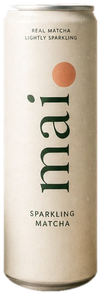
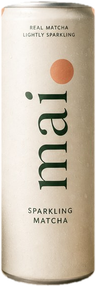
Put the photographed can back, sized to its real pixels.
Drop the vector can and the yuzu draft. Recut the still-life can from mai-hero.jpg and show it at 96px so a 2x screen does not upscale it. Keep the tighter hero, the whisk, and a small yuzu in place of the extra cans.

diff --git a/index.html b/index.html
@@ -31,7 +31,13 @@
     <meta name="twitter:image" content="https://drinkmai.com/assets/og.jpg" />
     <meta name="theme-color" content="#efe4d2" />
     <link rel="icon" href="favicon.svg" type="image/svg+xml" />
-    <link rel="preload" as="image" href="assets/can/mai.svg" type="image/svg+xml" />
+    <link
+      rel="preload"
+      as="image"
+      href="assets/can/mai-2x.webp"
+      type="image/webp"
+      imagesrcset="assets/can/mai-1x.webp 1x, assets/can/mai-2x.webp 2x"
+    />
     <link rel="preconnect" href="https://fonts.googleapis.com" />
     <link rel="preconnect" href="https://fonts.gstatic.com" crossorigin />
     <link
@@ -46,7 +52,7 @@
         href="https://fonts.googleapis.com/css2?family=Cormorant+Garamond:wght@500;600&family=Outfit:wght@400;500&family=Shippori+Mincho:wght@500;600&display=swap"
       />
     </noscript>
-    <link rel="stylesheet" href="styles.css?v=20261022h" />
+    <link rel="stylesheet" href="styles.css?v=20261022i" />
     <script type="application/ld+json">
       {
         "@context": "https://schema.org",
@@ -196,14 +202,18 @@
           </noscript>
         </div>
         <div class="spray-slot">
-          <img
-            class="spray-can"
-            src="assets/can/mai.svg"
-            alt="Mai sparkling matcha yuzu can"
-            width="220"
-            height="640"
-            fetchpriority="high"
-          />
+          <picture>
+            <source type="image/webp" srcset="assets/can/mai-1x.webp 1x, assets/can/mai-2x.webp 2x" />
+            <img
+              class="spray-can"
+              src="assets/can/mai-1x.png"
+              srcset="assets/can/mai-1x.png 1x, assets/can/mai-2x.png 2x"
+              alt="Mai sparkling matcha yuzu can"
+              width="96"
+              height="287"
+              fetchpriority="high"
+            />
+          </picture>
         </div>
       </section>
 
@@ -231,10 +241,18 @@
       </section>
 
       <section class="spray-friends">
-        <div class="spray-pair">
-          <img class="spray-can" src="assets/can/mai.svg" alt="" width="220" height="640" />
-          <img class="spray-can" src="assets/can/mai.svg" alt="" width="220" height="640" />
-        </div>
+        <svg class="spray-detail" viewBox="0 0 64 64" aria-hidden="true" focusable="false">
+          <g fill="none" stroke="#5c4634" stroke-width="1.15" stroke-linecap="round" stroke-linejoin="round">
+            <circle cx="32" cy="36" r="16" fill="#e8c766" fill-opacity="0.22"/>
+            <circle cx="32" cy="36" r="16"/>
+            <circle cx="32" cy="36" r="12.5" stroke-opacity="0.7"/>
+            <path d="M32 20.5 v31 M16.5 36 h31"/>
+            <path d="M21 25.5 c4 6 7 10 11 11 M43 25.5 c-4 6-7 10-11 11"/>
+            <path d="M21 46.5 c4-6 7-10 11-11 M43 46.5 c-4-6-7-10-11-11"/>
+            <path d="M30 18 c1-4 4-6 6-6"/>
+            <path d="M34 14 c6-6 13-5 16 1 -5 1-10 4-12 7" fill="#7d9a62" fill-opacity="0.35"/>
+          </g>
+        </svg>
         <h2>Two friends. One calmer can.</h2>
         <a class="text-link" href="story.html">Our story</a>
       </section>
@@ -277,7 +295,10 @@
             <span class="join-lantern join-lantern-sea"></span>
             <span class="join-lantern join-lantern-coral"></span>
             <span class="join-lantern join-lantern-ink"></span>
-            <img class="join-can" src="assets/can/mai.svg" alt="" width="220" height="640" />
+            <picture>
+              <source type="image/webp" srcset="assets/can/mai-1x.webp 1x, assets/can/mai-2x.webp 2x" />
+              <img class="join-can" src="assets/can/mai-1x.png" srcset="assets/can/mai-1x.png 1x, assets/can/mai-2x.png 2x" alt="" width="96" height="287" />
+            </picture>
           </div>
           <div class="join-shade" aria-hidden="true"></div>
           <div class="join-copy">
@@ -348,6 +369,6 @@
       </div>
     </dialog>
 
-    <script src="script.js?v=20261022h"></script>
+    <script src="script.js?v=20261022i"></script>
   </body>
 </html>

diff --git a/story.html b/story.html
@@ -33,8 +33,9 @@
     <link
       rel="preload"
       as="image"
-      href="assets/can/mai.svg"
-      type="image/svg+xml"
+      href="assets/can/mai-2x.webp"
+      type="image/webp"
+      imagesrcset="assets/can/mai-1x.webp 1x, assets/can/mai-2x.webp 2x"
     />
     <link rel="preconnect" href="https://fonts.googleapis.com" />
     <link rel="preconnect" href="https://fonts.gstatic.com" crossorigin />
@@ -50,7 +51,7 @@
         href="https://fonts.googleapis.com/css2?family=Cormorant+Garamond:wght@500;600&family=Outfit:wght@400;500&display=swap"
       />
     </noscript>
-    <link rel="stylesheet" href="styles.css?v=20261022h" />
+    <link rel="stylesheet" href="styles.css?v=20261022i" />
       <script>
       /* Opens the join sheet while script.js is still downloading. */
       (function () {
@@ -187,7 +188,17 @@
           </div>
           <figure class="product">
             <!-- TODO(Sam): replace after shoot — can at a 3/4 angle on pale stone or driftwood, cream background, cold condensation, a few flakes of sea salt, low morning side light. -->
-            <img src="assets/can/mai.svg" alt="Mai can" width="220" height="640" fetchpriority="high" />
+            <picture>
+              <source type="image/webp" srcset="assets/can/mai-1x.webp 1x, assets/can/mai-2x.webp 2x" />
+              <img
+                src="assets/can/mai-1x.png"
+                srcset="assets/can/mai-1x.png 1x, assets/can/mai-2x.png 2x"
+                alt="Mai can"
+                width="96"
+                height="287"
+                fetchpriority="high"
+              />
+            </picture>
             <div class="bubbles" aria-hidden="true">
               <span></span><span></span><span></span><span></span>
               <span></span><span></span><span></span><span></span>
@@ -315,7 +326,10 @@
             <span class="join-lantern join-lantern-sea"></span>
             <span class="join-lantern join-lantern-coral"></span>
             <span class="join-lantern join-lantern-ink"></span>
-            <img class="join-can" src="assets/can/mai.svg" alt="" width="220" height="640" />
+            <picture>
+              <source type="image/webp" srcset="assets/can/mai-1x.webp 1x, assets/can/mai-2x.webp 2x" />
+              <img class="join-can" src="assets/can/mai-1x.png" srcset="assets/can/mai-1x.png 1x, assets/can/mai-2x.png 2x" alt="" width="96" height="287" />
+            </picture>
           </div>
           <div class="join-shade" aria-hidden="true"></div>
           <div class="join-copy">
@@ -386,6 +400,6 @@
       </div>
     </dialog>
 
-    <script src="script.js?v=20261022h"></script>
+    <script src="script.js?v=20261022i"></script>
   </body>
 </html>

diff --git a/styles.css b/styles.css
@@ -1365,11 +1365,11 @@ body.modal-open { overflow: hidden; }
 .join-can {
   position: absolute;
   left: 50%;
-  top: 58%;
+  top: 54%;
   height: auto;
-  width: 136px;
+  width: 96px;
   max-height: none;
-  max-width: none;
+  max-width: 96px;
   transform: translate(-50%, -50%);
   object-fit: contain;
   object-position: center;
@@ -1689,9 +1689,10 @@ body.modal-open { overflow: hidden; }
   .join-modal .join-lantern-ink::after { height: 1.25rem; }
 
   .join-can {
-    top: 60%;
-    width: 100px;
+    top: 62%;
+    width: 96px;
     height: auto;
+    max-width: 96px;
     max-height: none;
     transform: translate(-50%, -50%);
   }
@@ -1750,8 +1751,8 @@ body.home-sea .spray-hero {
   position: relative;
   display: grid;
   grid-template-columns: minmax(0, 1.15fr) auto;
-  align-items: start;
-  gap: clamp(1.5rem, 4vw, 4rem);
+  align-items: center;
+  gap: clamp(1.5rem, 4vw, 3.5rem);
   min-height: 0;
   padding: 1.35rem max(1.25rem, calc((100% - 76rem) / 2)) 1.5rem;
   background: #efe4d2;
@@ -1763,7 +1764,6 @@ body.home-sea .spray-copy {
   width: auto;
   max-width: 40rem;
   min-width: 0;
-  padding-top: 0.35rem;
 }
 
 body.home-sea .spray-kicker,
@@ -1811,7 +1811,7 @@ body.home-sea .spray-slot {
 body.home-sea .spray-can {
   position: relative;
   z-index: 1;
-  width: clamp(208px, 20vw, 260px);
+  width: 96px;
   max-width: 100%;
   height: auto;
 }
@@ -1908,15 +1908,10 @@ body.home-sea .spray-friends {
   text-align: center;
 }
 
-body.home-sea .spray-pair {
-  display: flex;
-  align-items: flex-end;
-  justify-content: center;
-  gap: 1.75rem;
-}
-
-body.home-sea .spray-pair .spray-can {
-  width: 112px;
+body.home-sea .spray-detail {
+  display: block;
+  width: 52px;
+  height: auto;
 }
 
 body.home-sea .spray-friends h2 {
@@ -1962,7 +1957,7 @@ body.home-sea .spray-denver-actions {
     font-size: clamp(2.45rem, 11vw, 3.15rem);
   }
 
-  body.home-sea .spray-can { width: min(220px, 62vw); }
+  body.home-sea .spray-can { width: 96px; }
 
   body.home-sea .spray-words {
     flex-direction: column;
@@ -1981,9 +1976,7 @@ body.home-sea .spray-denver-actions {
     margin-left: 0;
   }
 
-  body.home-sea .spray-pair { gap: 1.25rem; }
-
-  body.home-sea .spray-pair .spray-can { width: 96px; }
+  body.home-sea .spray-detail { width: 44px; }
 }
 
 @media (prefers-reduced-motion: reduce) {

diff --git a/404.html b/404.html
@@ -21,7 +21,7 @@
         href="https://fonts.googleapis.com/css2?family=Cormorant+Garamond:wght@500;600&family=Outfit:wght@400;500&display=swap"
       />
     </noscript>
-    <link rel="stylesheet" href="styles.css?v=20261022h" />
+    <link rel="stylesheet" href="styles.css?v=20261022i" />
       <script>
       /* Opens the join sheet while script.js is still downloading. */
       (function () {
@@ -164,7 +164,10 @@
             <span class="join-lantern join-lantern-sea"></span>
             <span class="join-lantern join-lantern-coral"></span>
             <span class="join-lantern join-lantern-ink"></span>
-            <img class="join-can" src="assets/can/mai.svg" alt="" width="220" height="640" />
+            <picture>
+              <source type="image/webp" srcset="assets/can/mai-1x.webp 1x, assets/can/mai-2x.webp 2x" />
+              <img class="join-can" src="assets/can/mai-1x.png" srcset="assets/can/mai-1x.png 1x, assets/can/mai-2x.png 2x" alt="" width="96" height="287" />
+            </picture>
           </div>
           <div class="join-shade" aria-hidden="true"></div>
           <div class="join-copy">
@@ -235,6 +238,6 @@
       </div>
     </dialog>
 
-    <script src="script.js?v=20261022h"></script>
+    <script src="script.js?v=20261022i"></script>
   </body>
 </html>

diff --git a/privacy.html b/privacy.html
@@ -22,7 +22,7 @@
         href="https://fonts.googleapis.com/css2?family=Cormorant+Garamond:wght@500;600&family=Outfit:wght@400;500&display=swap"
       />
     </noscript>
-    <link rel="stylesheet" href="styles.css?v=20261022h" />
+    <link rel="stylesheet" href="styles.css?v=20261022i" />
       <script>
       /* Opens the join sheet while script.js is still downloading. */
       (function () {
@@ -192,7 +192,10 @@
             <span class="join-lantern join-lantern-sea"></span>
             <span class="join-lantern join-lantern-coral"></span>
             <span class="join-lantern join-lantern-ink"></span>
-            <img class="join-can" src="assets/can/mai.svg" alt="" width="220" height="640" />
+            <picture>
+              <source type="image/webp" srcset="assets/can/mai-1x.webp 1x, assets/can/mai-2x.webp 2x" />
+              <img class="join-can" src="assets/can/mai-1x.png" srcset="assets/can/mai-1x.png 1x, assets/can/mai-2x.png 2x" alt="" width="96" height="287" />
+            </picture>
           </div>
           <div class="join-shade" aria-hidden="true"></div>
           <div class="join-copy">
@@ -263,6 +266,6 @@
       </div>
     </dialog>
 
-    <script src="script.js?v=20261022h"></script>
+    <script src="script.js?v=20261022i"></script>
   </body>
 </html>

diff --git a/the-drop.html b/the-drop.html
@@ -44,7 +44,7 @@
         href="https://fonts.googleapis.com/css2?family=Cormorant+Garamond:wght@500;600&family=Outfit:wght@400;500&display=swap"
       />
     </noscript>
-    <link rel="stylesheet" href="styles.css?v=20261022h" />
+    <link rel="stylesheet" href="styles.css?v=20261022i" />
       <script>
       /* Opens the join sheet while script.js is still downloading. */
       (function () {
@@ -271,7 +271,10 @@
             <span class="join-lantern join-lantern-sea"></span>
             <span class="join-lantern join-lantern-coral"></span>
             <span class="join-lantern join-lantern-ink"></span>
-            <img class="join-can" src="assets/can/mai.svg" alt="" width="220" height="640" />
+            <picture>
+              <source type="image/webp" srcset="assets/can/mai-1x.webp 1x, assets/can/mai-2x.webp 2x" />
+              <img class="join-can" src="assets/can/mai-1x.png" srcset="assets/can/mai-1x.png 1x, assets/can/mai-2x.png 2x" alt="" width="96" height="287" />
+            </picture>
           </div>
           <div class="join-shade" aria-hidden="true"></div>
           <div class="join-copy">
@@ -342,6 +345,6 @@
       </div>
     </dialog>
 
-    <script src="script.js?v=20261022h"></script>
+    <script src="script.js?v=20261022i"></script>
   </body>
 </html>

diff --git a/script.js b/script.js
@@ -72,7 +72,10 @@
     '        <span class="join-lantern join-lantern-sea"></span>',
     '        <span class="join-lantern join-lantern-coral"></span>',
     '        <span class="join-lantern join-lantern-ink"></span>',
-    '        <img class="join-can" src="assets/can/mai.svg" alt="" width="220" height="640" />',
+    '        <picture>',
+    '          <source type="image/webp" srcset="assets/can/mai-1x.webp 1x, assets/can/mai-2x.webp 2x" />',
+    '          <img class="join-can" src="assets/can/mai-1x.png" srcset="assets/can/mai-1x.png 1x, assets/can/mai-2x.png 2x" alt="" width="96" height="287" />',
+    '        </picture>',
     '      </div>',
     '      <div class="join-shade" aria-hidden="true"></div>',
     '      <div class="join-copy">',
